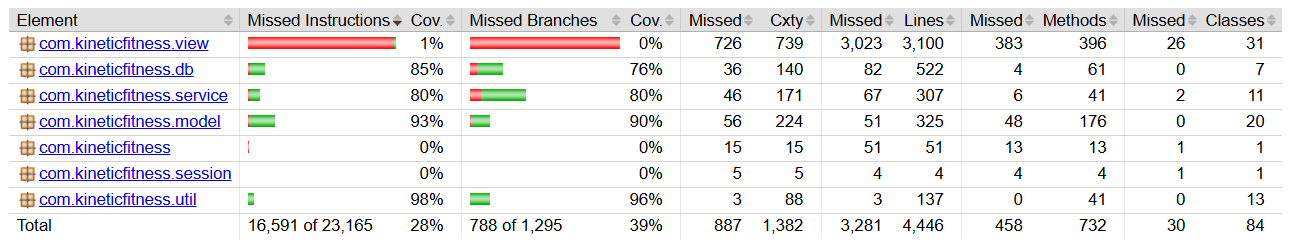
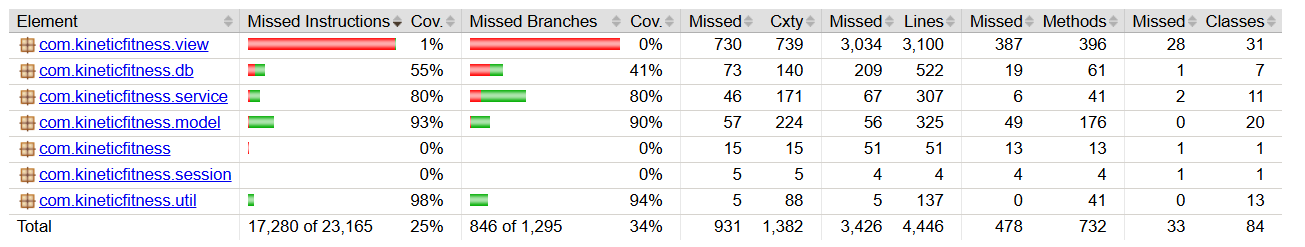
resources for video (JUNXI)

Changed region(s): [[0.0, 0.0283, 1.0, 0.9636]]

diff --git a/docs/change-log.md b/docs/change-log.md
@@ -24,19 +24,19 @@ Every row follows the same chain: **where the finding came from, what we decided
 
 ## C. UX and UI changes
 
-| # | Source | Finding | Decision and rationale | Change | Evidence                                                              |
-|---|-|---|---|---|-----------------------------------------------------------------------|
-| 11 | User or peer feedback | The unit system chosen in Settings was not respected on every screen | One saved setting with a tested converter, applied screen by screen: Dashboard, Settings and Progress, Profile, then Goals | Amish: [`45d74b9`](https://github.com/amishprasad/CAB302-ASSIGNMENT-1/commit/45d74b9), [`346d9ca`](https://github.com/amishprasad/CAB302-ASSIGNMENT-1/commit/346d9ca); Ebin: [`59b98fe`](https://github.com/amishprasad/CAB302-ASSIGNMENT-1/commit/59b98fe); Amish: [`6e77170`](https://github.com/amishprasad/CAB302-ASSIGNMENT-1/commit/6e77170) ([PR #69](https://github.com/amishprasad/CAB302-ASSIGNMENT-1/pull/69), branch `accessibility/settings-unit-toggle`), [`7eec688`](https://github.com/amishprasad/CAB302-ASSIGNMENT-1/commit/7eec688) ([PR #70](https://github.com/amishprasad/CAB302-ASSIGNMENT-1/pull/70)), [`c6157ff`](https://github.com/amishprasad/CAB302-ASSIGNMENT-1/commit/c6157ff) ([PR #74](https://github.com/amishprasad/CAB302-ASSIGNMENT-1/pull/74)) | `UnitConverterTest`, `UnitSystemTest`, before/after screenshots [add] |
-| 12 | UX feedback | The goal form pre-filled weekly duration, workout count and target date | The form now asks the user for these values instead | Helvin: [`890d4bb`](https://github.com/amishprasad/CAB302-ASSIGNMENT-1/commit/890d4bb) | before/after of UI after Week 9 submission                            |
-| 13 | UX feedback | Fitness level was asked for in more than one place | Choose it once on the profile; the goals screen shows it read-only | Helvin: [`87a306d`](https://github.com/amishprasad/CAB302-ASSIGNMENT-1/commit/87a306d) | before/after of UI after Week 9 submission                            |
-| 14 | Usability check| The Settings page could not be scrolled in small windows, had unused notification checkboxes, and failed password updates were not reported | Make the page scrollable, remove the unused checkboxes, and show an error when a password update fails | Amish: [`a31365b`](https://github.com/amishprasad/CAB302-ASSIGNMENT-1/commit/a31365b), [`e5c22f6`](https://github.com/amishprasad/CAB302-ASSIGNMENT-1/commit/e5c22f6) | before/after of UI after Week 9 submission                                        |
-| 15 | Security review | Changing the password did not ask for the current one | Require the current password and validate with `PasswordChangeValidator`, written test first | Amish: [`e39a446`](https://github.com/amishprasad/CAB302-ASSIGNMENT-1/commit/e39a446) red, [`9019ba3`](https://github.com/amishprasad/CAB302-ASSIGNMENT-1/commit/9019ba3) green, [`45700ad`](https://github.com/amishprasad/CAB302-ASSIGNMENT-1/commit/45700ad) Settings uses it | `PasswordChangeValidatorTest`                                         |
-| 16 | Week 9 feedback or team review | Workout History listed exercises with no grouping, naming or editing | Show workouts as sessions, let users name them, and add editing and deleting | Junxi: [`f4b0571`](https://github.com/amishprasad/CAB302-ASSIGNMENT-1/commit/f4b0571), [`06192f9`](https://github.com/amishprasad/CAB302-ASSIGNMENT-1/commit/06192f9), [`650ee57`](https://github.com/amishprasad/CAB302-ASSIGNMENT-1/commit/650ee57) red, [`4a6ae81`](https://github.com/amishprasad/CAB302-ASSIGNMENT-1/commit/4a6ae81) green, [`636f937`](https://github.com/amishprasad/CAB302-ASSIGNMENT-1/commit/636f937) | `SessionNamesTest`, screenshots [add]                                 |
+| # | Source                 | Finding | Decision and rationale | Change | Evidence                                                              |
+|---|------------------------|---|---|---|-----------------------------------------------------------------------|
+| 11 | User or peer feedback  | The unit system chosen in Settings was not respected on every screen | One saved setting with a tested converter, applied screen by screen: Dashboard, Settings and Progress, Profile, then Goals | Amish: [`45d74b9`](https://github.com/amishprasad/CAB302-ASSIGNMENT-1/commit/45d74b9), [`346d9ca`](https://github.com/amishprasad/CAB302-ASSIGNMENT-1/commit/346d9ca); Ebin: [`59b98fe`](https://github.com/amishprasad/CAB302-ASSIGNMENT-1/commit/59b98fe); Amish: [`6e77170`](https://github.com/amishprasad/CAB302-ASSIGNMENT-1/commit/6e77170) ([PR #69](https://github.com/amishprasad/CAB302-ASSIGNMENT-1/pull/69), branch `accessibility/settings-unit-toggle`), [`7eec688`](https://github.com/amishprasad/CAB302-ASSIGNMENT-1/commit/7eec688) ([PR #70](https://github.com/amishprasad/CAB302-ASSIGNMENT-1/pull/70)), [`c6157ff`](https://github.com/amishprasad/CAB302-ASSIGNMENT-1/commit/c6157ff) ([PR #74](https://github.com/amishprasad/CAB302-ASSIGNMENT-1/pull/74)) | `UnitConverterTest`, `UnitSystemTest`, before/after screenshots [add] |
+| 12 | UX feedback            | The goal form pre-filled weekly duration, workout count and target date | The form now asks the user for these values instead | Helvin: [`890d4bb`](https://github.com/amishprasad/CAB302-ASSIGNMENT-1/commit/890d4bb) | before/after of UI after Week 9 submission                            |
+| 13 | UX feedback            | Fitness level was asked for in more than one place | Choose it once on the profile; the goals screen shows it read-only | Helvin: [`87a306d`](https://github.com/amishprasad/CAB302-ASSIGNMENT-1/commit/87a306d) | before/after of UI after Week 9 submission                            |
+| 14 | Usability check (Team) | The Settings page could not be scrolled in small windows, had unused notification checkboxes, and failed password updates were not reported | Make the page scrollable, remove the unused checkboxes, and show an error when a password update fails | Amish: [`a31365b`](https://github.com/amishprasad/CAB302-ASSIGNMENT-1/commit/a31365b), [`e5c22f6`](https://github.com/amishprasad/CAB302-ASSIGNMENT-1/commit/e5c22f6) | before/after of UI after Week 9 submission                                        |
+| 15 | Security review (Team) | Changing the password did not ask for the current one | Require the current password and validate with `PasswordChangeValidator`, written test first | Amish: [`e39a446`](https://github.com/amishprasad/CAB302-ASSIGNMENT-1/commit/e39a446) red, [`9019ba3`](https://github.com/amishprasad/CAB302-ASSIGNMENT-1/commit/9019ba3) green, [`45700ad`](https://github.com/amishprasad/CAB302-ASSIGNMENT-1/commit/45700ad) Settings uses it | `PasswordChangeValidatorTest`                                         |
+| 16 | Team review            | Workout History listed exercises with no grouping, naming or editing | Show workouts as sessions, let users name them, and add editing and deleting | Junxi: [`f4b0571`](https://github.com/amishprasad/CAB302-ASSIGNMENT-1/commit/f4b0571), [`06192f9`](https://github.com/amishprasad/CAB302-ASSIGNMENT-1/commit/06192f9), [`650ee57`](https://github.com/amishprasad/CAB302-ASSIGNMENT-1/commit/650ee57) red, [`4a6ae81`](https://github.com/amishprasad/CAB302-ASSIGNMENT-1/commit/4a6ae81) green, [`636f937`](https://github.com/amishprasad/CAB302-ASSIGNMENT-1/commit/636f937) | `SessionNamesTest`, screenshots [add]                                 |
 
 ## D. Process and quality
 
 | # | Source | Finding | Decision and rationale | Change | Evidence |
 |---|-|---|---|---|---|
-| 17 | Internal check | Nothing built or tested the code automatically, and feature branches were not covered | Add a GitHub Actions pipeline with a build badge, then build every branch, not only `main` | Adriel: [`b108263`](https://github.com/amishprasad/CAB302-ASSIGNMENT-1/commit/b108263), [`b110904`](https://github.com/amishprasad/CAB302-ASSIGNMENT-1/commit/b110904); Helvin: [`9a5eb29`](https://github.com/amishprasad/CAB302-ASSIGNMENT-1/commit/9a5eb29) | GitHub Actions runs |
-| 18 | Internal check | Login and Register had no Javadoc, and there were no generated docs | Add Javadoc comments, generate docs with `maven-javadoc-plugin`, publish them from CI | Adriel: [`9bd3ab0`](https://github.com/amishprasad/CAB302-ASSIGNMENT-1/commit/9bd3ab0), [`8d45615`](https://github.com/amishprasad/CAB302-ASSIGNMENT-1/commit/8d45615) ([PR #67](https://github.com/amishprasad/CAB302-ASSIGNMENT-1/pull/67), [PR #68](https://github.com/amishprasad/CAB302-ASSIGNMENT-1/pull/68)); Amish: [`b1b79e2`](https://github.com/amishprasad/CAB302-ASSIGNMENT-1/commit/b1b79e2) ([PR #73](https://github.com/amishprasad/CAB302-ASSIGNMENT-1/pull/73)) | Javadoc artifact in CI |
+| 17 | Team review | Nothing built or tested the code automatically, and feature branches were not covered | Add a GitHub Actions pipeline with a build badge, then build every branch, not only `main` | Adriel: [`b108263`](https://github.com/amishprasad/CAB302-ASSIGNMENT-1/commit/b108263), [`b110904`](https://github.com/amishprasad/CAB302-ASSIGNMENT-1/commit/b110904); Helvin: [`9a5eb29`](https://github.com/amishprasad/CAB302-ASSIGNMENT-1/commit/9a5eb29) | GitHub Actions runs |
+| 18 | Team review | Login and Register had no Javadoc, and there were no generated docs | Add Javadoc comments, generate docs with `maven-javadoc-plugin`, publish them from CI | Adriel: [`9bd3ab0`](https://github.com/amishprasad/CAB302-ASSIGNMENT-1/commit/9bd3ab0), [`8d45615`](https://github.com/amishprasad/CAB302-ASSIGNMENT-1/commit/8d45615) ([PR #67](https://github.com/amishprasad/CAB302-ASSIGNMENT-1/pull/67), [PR #68](https://github.com/amishprasad/CAB302-ASSIGNMENT-1/pull/68)); Amish: [`b1b79e2`](https://github.com/amishprasad/CAB302-ASSIGNMENT-1/commit/b1b79e2) ([PR #73](https://github.com/amishprasad/CAB302-ASSIGNMENT-1/pull/73)) | Javadoc artifact in CI |
 | 19 | Coverage report (JaCoCo) | Login, registration and profile saving were barely tested: the `db` package was at 55% instruction coverage and 41% branch coverage | Add JaCoCo to the build and CI, and write tests for `UserDAO`, `ProfileDAO` and `PasswordUtil` | Junxi: [`6eaac85`](https://github.com/amishprasad/CAB302-ASSIGNMENT-1/commit/6eaac85) JaCoCo, [`64a64fd`](https://github.com/amishprasad/CAB302-ASSIGNMENT-1/commit/64a64fd) tests | `db` package 55% to 85% instructions, 41% to 76% branches; `docs/coverage-log.md` |
